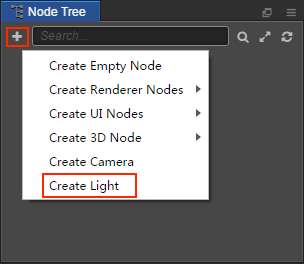
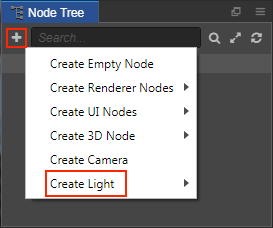
完善光源组件

Changed region(s): [[0.0, 0.0, 0.9963, 0.8904], [0.0, 0.9825, 0.9963, 1.0]]

diff --git a/zh/3d/lighting.md b/zh/3d/lighting.md
@@ -8,13 +8,25 @@
 
 - 在 **层级管理器** 中点击左上角的 **+** 按钮，然后选择 **创建光源**，就可以创建一个包含有 **光源组件** 的节点到场景中。
 
-![](img/add-node-light.png)
+  ![](img/add-node-light.png)
 
 - 在 **层级管理器** 中选择需要添加光源的节点，然后点击 **属性检查器** 下方的 **添加组件** 按钮，从 **渲染组件** 中选择 **Light**，即可添加 Light 组件到节点上。
 
-![](img/add-light.png)
+  ![](img/add-light.png)
 
 ## 光源类型
+
+光源类型包括 **平行光**、**点光源**、**聚光灯**、**环境光** 四种。可以通过以下两种方式选择光源类型：
+
+- 一种是在 **层级管理器** 中创建节点时直接选择 **Create Light -> 所需的光源类型（例如 Directional）** 即可。
+
+  ![](img/add-light-types.png)
+
+  ![](img/light-types.png)
+
+- 另一种是在节点的 **属性检查器** 中添加 Light 组件之后，直接设置 Light 组件的 **type** 属性。
+
+  ![](img/choose-light-types.png)
 
 ### 平行光
 
@@ -40,11 +52,14 @@
 
 ### 环境光
 
-环境光会均匀的照亮场景中的所有物体，他对于提升场景亮度很有帮助。环境光一般会配合其他类型的光源一起使用，比如如果场景中只有一个平行光，在模型的背光源会显得非常暗，加入环境光可以提升模型背部的亮度，显得更加美观。
+环境光可以均匀地照亮场景中的所有物体，帮助提升场景亮度，常用于解决模型背光面全黑的问题。环境光一般需要配合其他类型的光源一起使用，例如场景中只有一个平行光，那么在模型的背光源处会显得非常暗，加入环境光则可以提升模型背部的亮度，显得更加美观。
 
-**注意**：由于环境光是没有方向的，所以他不能产生阴影。
+**注意**：
 
-![Spot Light](img/lighting-7.jpg)
+- 由于环境光是没有方向的，所以不能产生阴影。
+- 环境光可以放在场景中的任意节点上，与坐标无关，放在任意位置都可以。
+
+![Ambient Light](img/lighting-7.jpg)
 
 ## 设置阴影
 
@@ -57,10 +72,13 @@
 假设我们希望在一个平面上显示一个模型的投影，那么各节点的参数设置可以参考下图：
 
 1. 光源组件
-![Light Component](img/lighting-1.jpg)
+
+    ![Light Component](img/lighting-1.jpg)
 
 2. 模型的 MeshRenderer 组件
-![Light Component](img/lighting-2.jpg)
+
+    ![Light Component](img/lighting-2.jpg)
 
 3. 平面的 MeshRenderer 组件
-![Light Component](img/lighting-3.jpg)
+
+    ![Light Component](img/lighting-3.jpg)

diff --git a/en/3d/lighting.md b/en/3d/lighting.md
@@ -8,13 +8,25 @@ There are two ways to add lights:
 
 - Click on the **+** button in the upper left corner of the **Node Tree** and select **Create Light** to create a node containing the **Light component** to your scene.
 
-![](img/add-node-light.png)
+  ![](img/add-node-light.png)
 
 - Add a Light component to the node by selecting the node in the **Node Tree** where you want to add the lights, then clicking the **Add Component** button below the **Properties** and selecting **Light** from the **Renderer Component**.
 
-![](img/add-light.png)
+  ![](img/add-light.png)
 
 ## Types of light
+
+Light types include **DIRECTIONAL**, **POINT**, **SPOT**, **AMBIENT** four types. There are two ways to choose a Light type:
+
+- One is to select the **Create Light -> desired Light type (for example Directional)** directly when creating a node in the **Node Tree**.
+
+  ![](img/add-light-types.png)
+
+  ![](img/light-types.png)
+
+- The other is to set the **Type** property directly after adding the Light component in the **Properties** of the node.
+
+  ![](img/choose-light-types.png)
 
 ### Directional lights
 
@@ -38,6 +50,19 @@ The spot light is a point emits a beam of light to one direction. And has one mo
 
 ![Spot Light](img/lighting-6.jpg)
 
+### Ambient lights
+
+Ambient light can evenly illuminate all objects in the scene, helping to improve the brightness of the scene. This is often used to solve the problem of blackout of the back surface of the model.
+
+Ambient light generally needs to be used with other types of Light. For example, if there is only one directional light in the scene, it will appear very dark at the backlight of the model. Adding ambient light can enhance the brightness of the back of the model.
+
+**Note**:
+
+- Since the ambient light has no direction, no shadow can be produced.
+- Ambient light can be placed anywhere in the scene, regardless of the coordinates.
+
+![Ambient Light](img/lighting-7.jpg)
+
 ## Shadows
 
 If you want to make object shadows, there are a few steps:
@@ -49,10 +74,13 @@ If you want to make object shadows, there are a few steps:
 Suppose we want to display the projection of a model on a plane, then the parameter settings of each node can refer to the following figure:
 
 1. Light component
-![Light Component](img/lighting-1.jpg)
+
+    ![Light Component](img/lighting-1.jpg)
 
 2. The MeshRenderer component of the model
-![Light Component](img/lighting-2.jpg)
+
+    ![Light Component](img/lighting-2.jpg)
 
 3. The MeshRenderer component of the plane
-![Light Component](img/lighting-3.jpg)
+
+    ![Light Component](img/lighting-3.jpg)

diff --git a/zh/3d/light-component.md b/zh/3d/light-component.md
@@ -12,7 +12,7 @@
 
 | 属性 |   功能说明
 | -------------- | ----------- |
-| Type                | 支持的光源类型，包括 **DIRECTIONAL**（平行光）、**POINT**（点光源）、**SPOT**（聚光灯）三种。不同的类型表现会有些差别，具体可参考 [光照](lighting.md) 章节。
+| Type                | 支持的光源类型，包括 **DIRECTIONAL**（平行光）、**POINT**（点光源）、**SPOT**（聚光灯）和 **AMBIENT** 四种。不同的类型表现会有些差别，具体可参考 [光照](lighting.md) 章节。
 | Color               | 光源的颜色。
 | Intensity           | 光照强度，值越大光照越亮。
 | Range               | 光源照射的半径范围。仅在 Type 设为 **POINT** 和 **SPOT** 时才生效。

diff --git a/en/3d/light-component.md b/en/3d/light-component.md
@@ -12,7 +12,7 @@ Click the **Add Component** button at the bottom of the **Properties** panel and
 
 | Properties |   Description
 | -------------- | ----------- |
-| Type                | Light type. Including **DIRECTIONAL**, **POINT**, **SPOT** three types. Please refer to [Lighting](lighting.md) for details.
+| Type                | Light type. Including **DIRECTIONAL**, **POINT**, **SPOT**, **AMBIENT** four types. Please refer to [Lighting](lighting.md) for details.
 | Color               | Light color.
 | Intensity           | Light intensity, the greater the value, the brighter the light.
 | Range               | Light radius. Only takes effect when the Type is set to **POINT** and **SPOT**.
